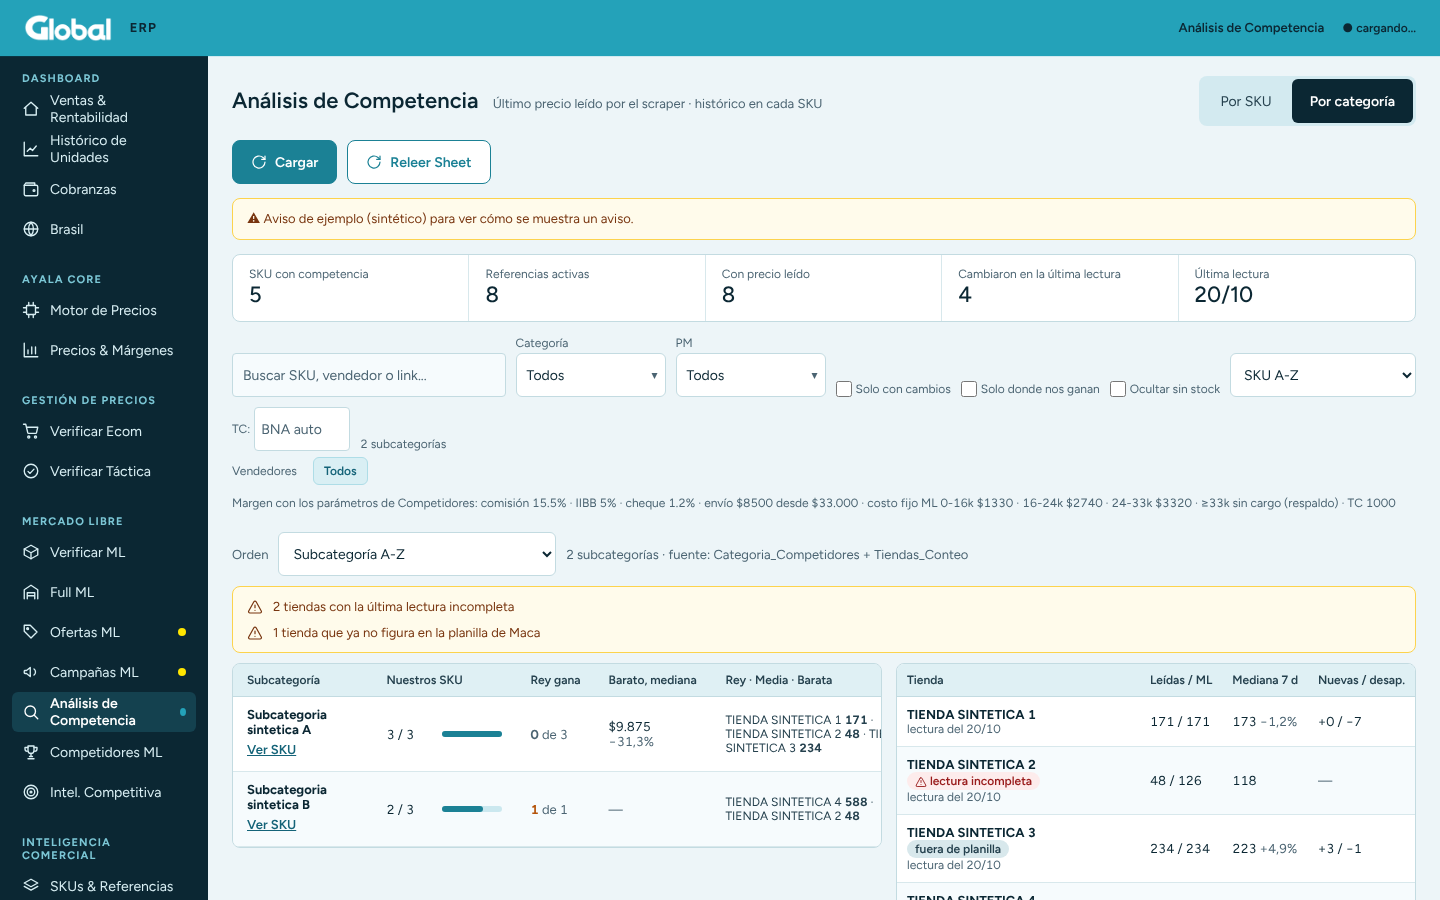
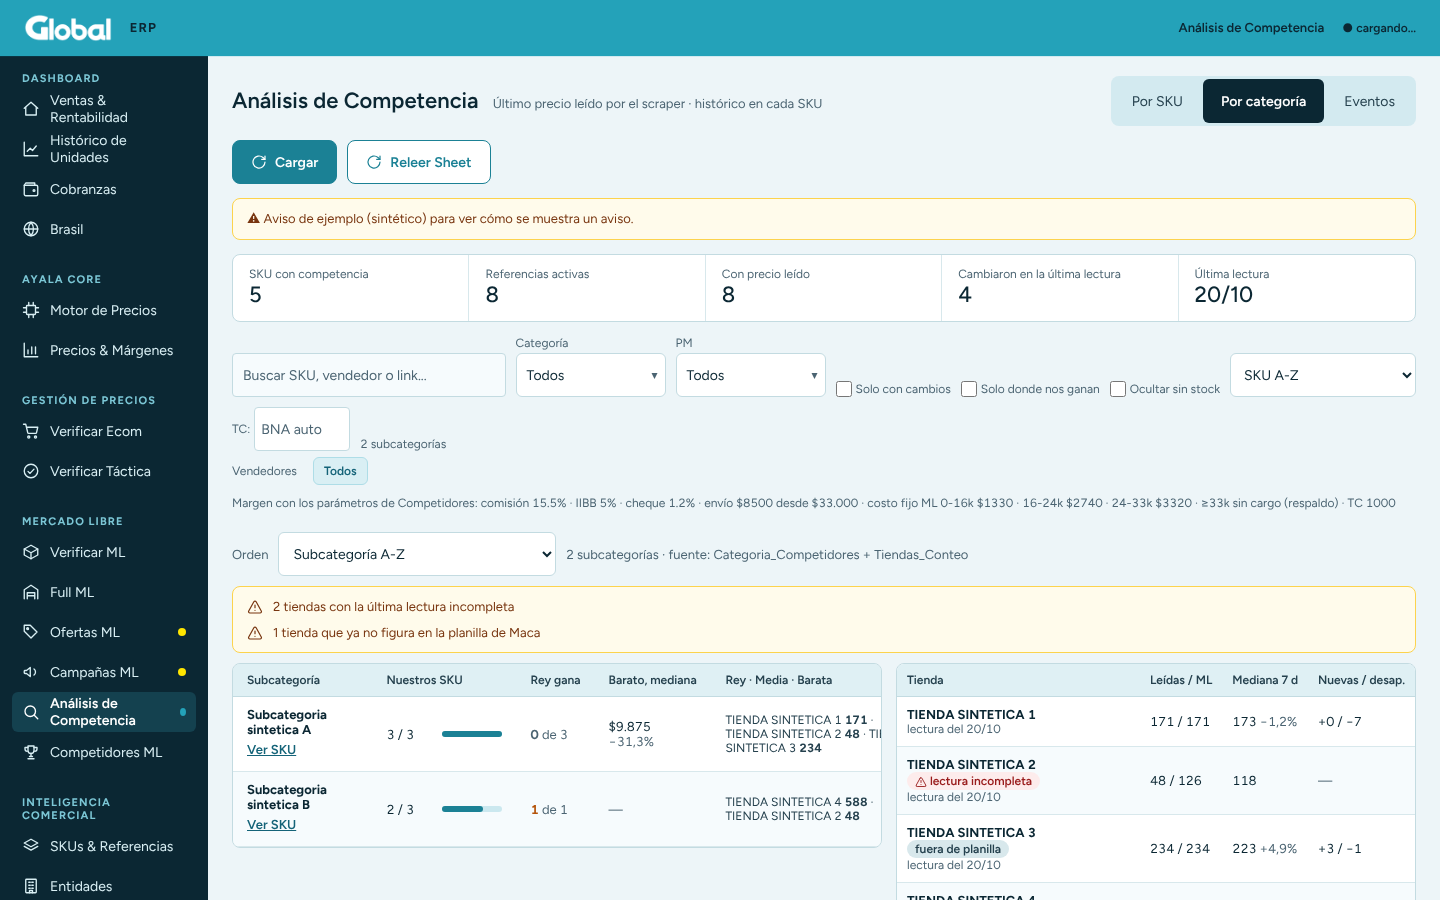
estética: rebase sobre main (#38 y #41): vista Eventos con el estilo nuevo, selector de 3 vistas y capturas antes/después
Claude-Session: https://claude.ai/code/session_018BD6E98AYWtTsGhsVKSazC

Changed region(s): [[0.75, 0.0622, 1.0, 0.1556], [0.0, 0.8711, 0.125, 0.9956]]

diff --git a/docs/index.html b/docs/index.html
@@ -353,6 +353,7 @@ body[data-page="analisis-competencia"]{
 #page-analisis-competencia input,#page-analisis-competencia select{font-family:var(--fuente)!important}
 #page-analisis-competencia #ac-search,#page-analisis-competencia #ac-tc,#page-analisis-competencia select.fi,#page-analisis-competencia .ms-search input,#page-analisis-competencia .ac-frow input,#page-analisis-competencia .ac-sel2{font-size:var(--fs-campo)!important}
 #page-analisis-competencia #ac-tc{width:96px!important}
+#page-analisis-competencia #ac-ev-umbral{min-height:44px;width:72px!important;padding:0 8px!important;border:1px solid var(--borde)!important;border-radius:6px!important;font-size:var(--fs-campo)!important;color:var(--tinta)!important;background:var(--superficie)!important}
 #page-analisis-competencia ::placeholder{color:var(--texto-suave);opacity:1}
 #page-analisis-competencia .table-wrap{background:var(--superficie);border:1px solid var(--borde);border-radius:8px;scrollbar-color:var(--celeste-300) var(--zebra)}
 #page-analisis-competencia .table-wrap::-webkit-scrollbar-track{background:var(--zebra)}
@@ -1902,7 +1903,6 @@ const DASH_PAGES=['dashboard','historico','cobranzas','brasil'];
 function goPage(page,el){
   // Módulos jubilados: el link viejo lleva a la pantalla nueva (Intel. Competitiva → Análisis de Competencia, vista Eventos).
   if(page==='intel-competitiva'){page='analisis-competencia';el=null;AC.modo='ev';}
-  if(!el)el=document.querySelector('.sidebar-item[data-page="'+page+'"]');
   document.querySelectorAll('.page').forEach(p=>p.classList.remove('active'));
   document.getElementById('page-'+page).classList.add('active');
   document.querySelectorAll('.sidebar-item').forEach(i=>i.classList.remove('active'));
